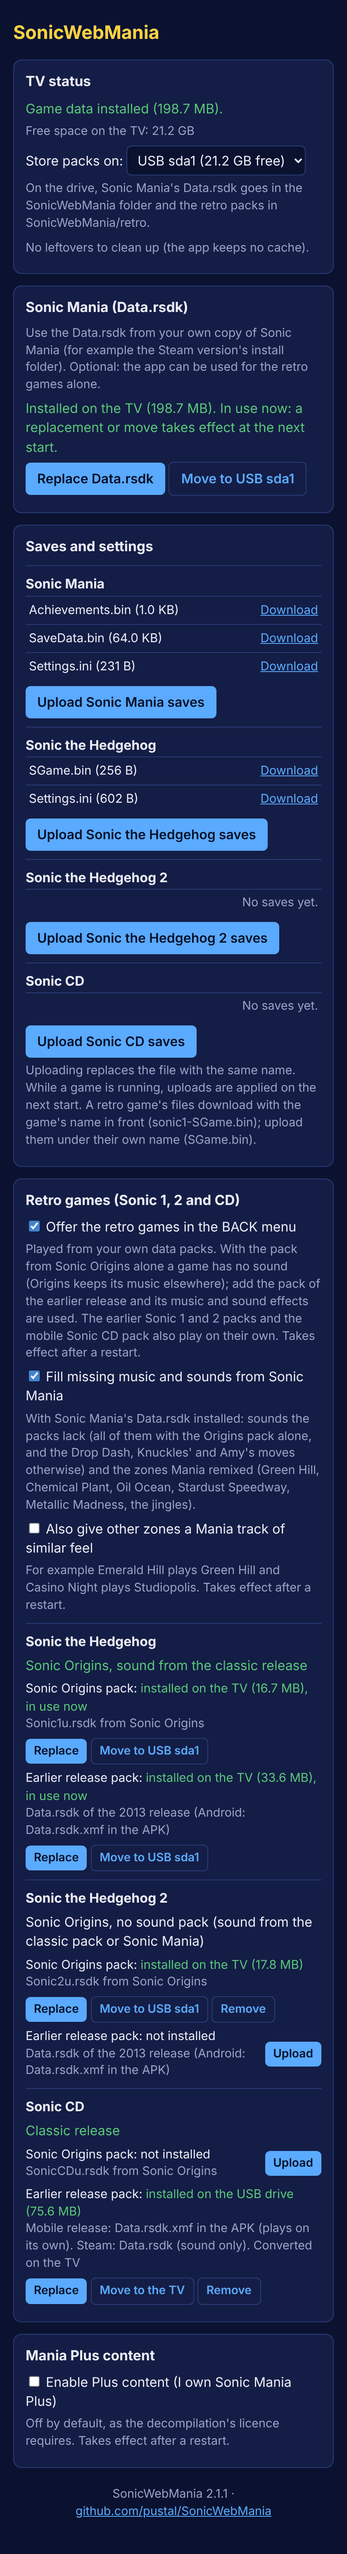
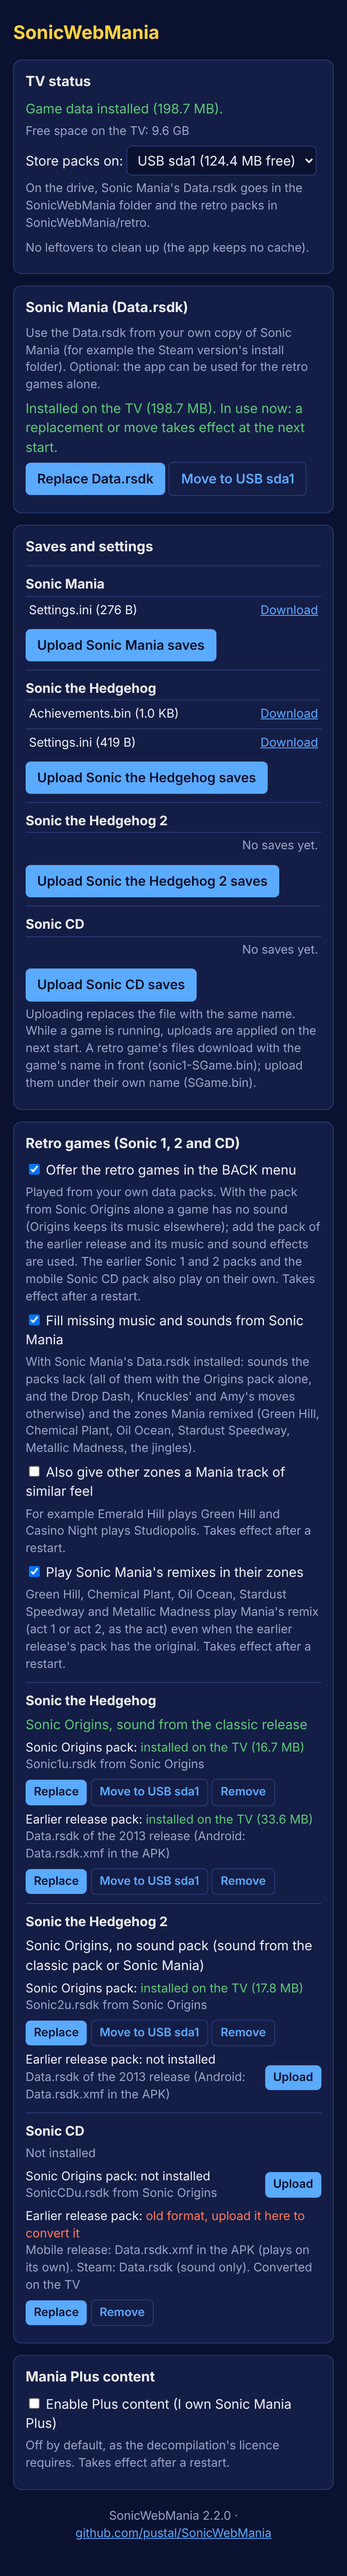
Release 2.2.0: Sonic Mania remixes option, act 2 remixes, updated transfer page screenshot

Changed region(s): [[0.0619, 0.0311, 0.9286, 0.9955], [0.7738, 0.8399, 0.8976, 0.9021]]

diff --git a/web/index.html b/web/index.html
@@ -101,6 +101,9 @@
         Oil Ocean, Stardust Speedway, Metallic Madness, the jingles).</p>
       <p><label><input id="mania-similar" type="checkbox"> Also give other zones a Mania track of similar feel</label></p>
       <p class="dim">For example Emerald Hill plays Green Hill and Casino Night plays Studiopolis. Takes effect after a restart.</p>
+      <p><label><input id="mania-remixes" type="checkbox"> Play Sonic Mania's remixes in their zones</label></p>
+      <p class="dim">Green Hill, Chemical Plant, Oil Ocean, Stardust Speedway and Metallic Madness play Mania's remix (act 1
+        or act 2, as the act) even when the earlier release's pack has the original. Takes effect after a restart.</p>
       <div id="retro-games"></div>
       <progress id="retro-progress" class="hidden" max="100" value="0"></progress>
       <p id="retro-message"></p>
@@ -128,7 +131,7 @@
  * @typedef {{ active: boolean, received: number, expected: number }} UploadState
  * @typedef {{ version: string, mode: 'setup'|'game', freeBytes: number, safetyMarginBytes: number, persistent: boolean,
  *             dataPack: DataPackState, plusEnabled: boolean, retroEnabled: boolean, maniaAudio: boolean,
- *             maniaSimilarMusic: boolean, restartPending: boolean,
+ *             maniaSimilarMusic: boolean, maniaRemixes: boolean, restartPending: boolean,
  *             upload: UploadState }} Status
  * @typedef {{ name: string, size: number, mtime: number }} UserFile
  * @typedef {{ id: string, title: string, files: UserFile[] }} GameFiles
@@ -251,6 +254,9 @@ async function refreshStatus() {
   const similar = /** @type {HTMLInputElement} */ (byId('mania-similar'));
   similar.checked = status.maniaSimilarMusic;
   similar.disabled = !status.maniaAudio;
+  const remixes = /** @type {HTMLInputElement} */ (byId('mania-remixes'));
+  remixes.checked = status.maniaRemixes;
+  remixes.disabled = !status.maniaAudio;
   renderManiaPack();
 }
 
@@ -775,6 +781,12 @@ byId('mania-audio').addEventListener('change', async (event) => {
 byId('mania-similar').addEventListener('change', async (event) => {
   const checked = /** @type {HTMLInputElement} */ (event.target).checked;
   await api('/api/settings?maniaSimilarMusic=' + (checked ? '1' : '0'), { method: 'PUT' });
+  await refreshStatus();
+});
+
+byId('mania-remixes').addEventListener('change', async (event) => {
+  const checked = /** @type {HTMLInputElement} */ (event.target).checked;
+  await api('/api/settings?maniaRemixes=' + (checked ? '1' : '0'), { method: 'PUT' });
   await refreshStatus();
 });
 

diff --git a/src/RetroAudio.cpp b/src/RetroAudio.cpp
@@ -8,9 +8,11 @@
 #include "RetroAudio.h"
 
 #include <cstdio>
+#include <cstdlib>
 #include <cstring>
 #include <set>
 #include <string>
+#include <utility>
 
 namespace
 {
@@ -119,7 +121,10 @@ struct MusicStandIn {
     const char *retro;
     const char *mania;
     int loop;
-    bool similar; ///< Only with "similar music" on: a different zone of similar feel.
+    bool similar;                    ///< Only with "similar music" on: a different zone of similar feel.
+    const char *maniaAct2 = nullptr; ///< Mania's act 2 version, played from the retro zone's act 2 on.
+    int loopAct2          = 0;
+    bool remix            = false;   ///< Mania remixed this zone: "Mania remixes" prefers it to the original.
 };
 
 constexpr MusicStandIn kMusicStandIns[] = {
@@ -132,18 +137,19 @@ constexpr MusicStandIn kMusicStandIns[] = {
     { kAll, "GameOver", "GameOver.ogg", 0, false },
     { kSonic2, "Super", "Super.ogg", 165375, false },
     { kAll, "Boss", "BossEggman1.ogg", 282240, false },
-    { kSonic1, "GreenHill", "GreenHill1.ogg", 776160, false },
-    { kSonic2, "ChemicalPlant", "ChemicalPlant1.ogg", 680400, false },
-    { kSonic2, "OilOcean", "OilOcean1.ogg", 358389, false },
+    // Loop points from Mania's scenes (GHZ, CPZ, OOZ1/OOZ2, SSZ1/SSZ2, MMZ).
+    { kSonic1, "GreenHill", "GreenHill1.ogg", 776160, false, "GreenHill2.ogg", 775552, true },
+    { kSonic2, "ChemicalPlant", "ChemicalPlant1.ogg", 680400, false, "ChemicalPlant2.ogg", 680400, true },
+    { kSonic2, "OilOcean", "OilOcean1.ogg", 358389, false, "OilOcean2.ogg", 176400, true },
     // Sonic CD: A present, B past, C good future, D bad future.
-    { kSonicCd, "R7A", "StardustSpeedway1.ogg", 432894, false },
-    { kSonicCd, "R7B", "StardustSpeedway1.ogg", 432894, false },
-    { kSonicCd, "R7C", "StardustSpeedway1.ogg", 432894, false },
-    { kSonicCd, "R7D", "StardustSpeedway2.ogg", 1, false },
-    { kSonicCd, "R8A", "MetallicMadness1.ogg", 470400, false },
-    { kSonicCd, "R8B", "MetallicMadness1.ogg", 470400, false },
-    { kSonicCd, "R8C", "MetallicMadness1.ogg", 470400, false },
-    { kSonicCd, "R8D", "MetallicMadness2.ogg", 296056, false },
+    { kSonicCd, "R7A", "StardustSpeedway1.ogg", 432894, false, nullptr, 0, true },
+    { kSonicCd, "R7B", "StardustSpeedway1.ogg", 432894, false, nullptr, 0, true },
+    { kSonicCd, "R7C", "StardustSpeedway1.ogg", 432894, false, nullptr, 0, true },
+    { kSonicCd, "R7D", "StardustSpeedway2.ogg", 1, false, nullptr, 0, true },
+    { kSonicCd, "R8A", "MetallicMadness1.ogg", 470400, false, nullptr, 0, true },
+    { kSonicCd, "R8B", "MetallicMadness1.ogg", 470400, false, nullptr, 0, true },
+    { kSonicCd, "R8C", "MetallicMadness1.ogg", 470400, false, nullptr, 0, true },
+    { kSonicCd, "R8D", "MetallicMadness2.ogg", 296056, false, nullptr, 0, true },
 
     // Similar feel (opt-in).
     { kAll, "TitleScreen", "TitleScreen.ogg", 0, true },
@@ -200,6 +206,7 @@ constexpr MusicStandIn kSpeedShoes = { kSonic1 | kSonic2, "", "Sneakers.ogg", 12
 struct AudioSession {
     unsigned game     = 0; ///< A Games bit; 0 for Sonic Mania (no stand-ins).
     bool similarMusic = false;
+    bool remixes      = false; ///< Mania's remixes win over the packs' originals.
     std::set<std::string> logged; ///< Stand-ins already reported to the log.
 };
 
@@ -273,16 +280,45 @@ const MusicStandIn *FindMusic(const std::string &name)
     return nullptr;
 }
 
+/** True when @p name is the sped-up track ("..._F.ogg") of a zone Mania remixed. */
+bool RemixedZoneFast(const std::string &name)
+{
+    const std::size_t dot = name.find_last_of('.');
+    const std::string base = dot == std::string::npos ? name : name.substr(0, dot);
+    if (base.size() <= 2 || !SameName(base.substr(base.size() - 2), "_F"))
+        return false;
+    const MusicStandIn *zone = FindMusic(base.substr(0, base.size() - 2) + ".ogg");
+    return zone && zone->remix;
+}
+
+/** The act being played, from the stage list's id ("1", "2"...), or 1 outside a stage list. */
+int CurrentAct()
+{
+    if (RSDK::engine.version == 5 || !RSDK::sceneInfo.listData)
+        return 1;
+    const int act = std::atoi(RSDK::sceneInfo.listData[RSDK::sceneInfo.listPos].id);
+    return act > 0 ? act : 1;
+}
+
+/** The Mania track and loop point of @p entry for the act being played. */
+std::pair<std::string, int> TrackForAct(const MusicStandIn &entry)
+{
+    if (entry.maniaAct2 && CurrentAct() >= 2)
+        return { entry.maniaAct2, entry.loopAct2 };
+    return { entry.mania, entry.loop };
+}
+
 } // namespace
 
 namespace swm
 {
 
-void ConfigureRetroAudio(const std::string &gameId, bool similarMusic)
+void ConfigureRetroAudio(const std::string &gameId, bool similarMusic, bool remixes)
 {
     AudioSession &session = Session();
     session.game          = gameId == "sonic1" ? kSonic1 : gameId == "sonic2" ? kSonic2 : gameId == "soniccd" ? kSonicCd : 0;
     session.similarMusic  = similarMusic;
+    session.remixes       = remixes;
 }
 
 } // namespace swm
@@ -308,19 +344,29 @@ extern "C" int WebOSPort_ResolveLegacyMusic(const char *name, char *out, int out
 {
     if (!Session().game || !name || !*name)
         return 0;
-    const std::string retro = name;
-    const int source        = SourceOf("Data/Music/" + retro);
-    if (source == RSDK::DATAFILE_SOURCE_GAME)
-        return 0;
-
+    const std::string retro   = name;
+    const int source          = SourceOf("Data/Music/" + retro);
     const MusicStandIn *entry = FindMusic(retro);
-    if (entry && SourceOf(std::string("Data/Music/") + entry->mania) == RSDK::DATAFILE_SOURCE_AUDIO) {
-        if (!CopyOut(entry->mania, out, outSize))
+
+    // The game's own track wins, unless it is a zone Mania remixed and the
+    // remixes are preferred. A remixed zone's sped-up track (speed shoes)
+    // becomes Mania's jingle too, rather than the original sped up.
+    if (source == RSDK::DATAFILE_SOURCE_GAME) {
+        const bool remixed = entry && Session().remixes && (entry->remix || entry == &kSpeedShoes);
+        if (!remixed || (entry == &kSpeedShoes && !RemixedZoneFast(retro)))
             return 0;
-        if (loopPoint)
-            *loopPoint = entry->loop;
-        LogOnce("music", retro, entry->mania);
-        return 1;
+    }
+
+    if (entry) {
+        const std::pair<std::string, int> track = TrackForAct(*entry);
+        if (SourceOf("Data/Music/" + track.first) == RSDK::DATAFILE_SOURCE_AUDIO) {
+            if (!CopyOut(track.first, out, outSize))
+                return 0;
+            if (loopPoint)
+                *loopPoint = track.second;
+            LogOnce("music", retro, track.first);
+            return 1;
+        }
     }
     // A Mania track that only shares the name (its title screen, credits...)
     // is a different song: play nothing rather than that, unless chosen above.

diff --git a/src/port/TransferServer.cpp b/src/port/TransferServer.cpp
@@ -11,7 +11,7 @@
  *   GET  /api/files           JSON: saves/settings files, Sonic Mania's and each retro game's
  *   GET  /api/files/:name[?game=<id>]   download one file (a retro game's with ?game=sonic1 ...)
  *   PUT  /api/files/:name[?game=<id>]   raw body = replacement file (applied at next launch while playing)
- *   PUT  /api/settings?plusEnabled=0|1&retroEnabled=0|1&maniaAudio=0|1&maniaSimilarMusic=0|1
+ *   PUT  /api/settings?plusEnabled=0|1&retroEnabled=0|1&maniaAudio=0|1&maniaSimilarMusic=0|1&maniaRemixes=0|1
  *                             (any of them)
  *   GET  /api/retro           JSON: retro mode, TV and USB space, each game's packs
  *   PUT  /api/retro/:game/:edition?dest=tv|usb[&mount=<USB mount point>]
@@ -517,6 +517,7 @@ void TransferServer::RegisterRoutes()
              << ",\"retroEnabled\":" << (config_.IsRetroEnabled() ? "true" : "false")
              << ",\"maniaAudio\":" << (config_.IsManiaAudioEnabled() ? "true" : "false")
              << ",\"maniaSimilarMusic\":" << (config_.IsManiaSimilarMusicEnabled() ? "true" : "false")
+             << ",\"maniaRemixes\":" << (config_.IsManiaRemixesEnabled() ? "true" : "false")
              << ",\"restartPending\":" << (status.restartPending ? "true" : "false")
              << ",\"upload\":{\"active\":" << (status.uploading ? "true" : "false")
              << ",\"received\":" << status.receivedBytes << ",\"expected\":" << status.expectedBytes << "}}";
@@ -702,7 +703,7 @@ void TransferServer::RegisterRoutes()
 
     server.Put("/api/settings", [this](const httplib::Request &req, httplib::Response &res) {
         if (!req.has_param("plusEnabled") && !req.has_param("retroEnabled") && !req.has_param("maniaAudio")
-            && !req.has_param("maniaSimilarMusic"))
+            && !req.has_param("maniaSimilarMusic") && !req.has_param("maniaRemixes"))
             return Fail(res, 400, "Nothing to change.");
 
         std::string message;
@@ -730,6 +731,12 @@ void TransferServer::RegisterRoutes()
             if (!config_.SetManiaSimilarMusicEnabled(enabled))
                 return Fail(res, 500, "Could not save the setting.");
             message = enabled ? "Similar Mania music on. Restart to apply." : "Similar Mania music off. Restart to apply.";
+        }
+        if (req.has_param("maniaRemixes")) {
+            const bool enabled = req.get_param_value("maniaRemixes") == "1";
+            if (!config_.SetManiaRemixesEnabled(enabled))
+                return Fail(res, 500, "Could not save the setting.");
+            message = enabled ? "Sonic Mania remixes on. Restart to apply." : "Sonic Mania remixes off. Restart to apply.";
         }
 
         NoteRestartNeeded();

diff --git a/src/port/PortConfig.cpp b/src/port/PortConfig.cpp
@@ -2,7 +2,7 @@
  * @file PortConfig.cpp
  * @brief Reads and writes port.ini (see PortConfig.h). The format is plain
  *        "key=value" lines (plusEnabled, retroEnabled, maniaAudio,
- *        maniaSimilarMusic, lastGame); unknown
+ *        maniaSimilarMusic, maniaRemixes, lastGame); unknown
  *        keys are ignored.
  */
 #include "PortConfig.h"
@@ -19,6 +19,7 @@ constexpr const char *kRetroKey    = "retroEnabled";
 constexpr const char *kLastGameKey = "lastGame";
 constexpr const char *kManiaAudioKey   = "maniaAudio";
 constexpr const char *kManiaSimilarKey = "maniaSimilarMusic";
+constexpr const char *kManiaRemixesKey = "maniaRemixes";
 
 /** Game ids are short names of letters and digits; anything else is ignored. */
 bool IsPlainId(const std::string &id)
@@ -66,6 +67,8 @@ PortConfig::PortConfig(std::string path) : path_(std::move(path))
             maniaAudio_ = ParseBool(value);
         else if (key == kManiaSimilarKey)
             maniaSimilar_ = ParseBool(value);
+        else if (key == kManiaRemixesKey)
+            maniaRemixes_ = ParseBool(value);
         else if (key == kLastGameKey && IsPlainId(value))
             lastGame_ = value;
     }
@@ -123,6 +126,19 @@ bool PortConfig::SetManiaSimilarMusicEnabled(bool enabled)
     return SaveLocked();
 }
 
+bool PortConfig::IsManiaRemixesEnabled() const
+{
+    std::lock_guard<std::mutex> lock(mutex_);
+    return maniaRemixes_;
+}
+
+bool PortConfig::SetManiaRemixesEnabled(bool enabled)
+{
+    std::lock_guard<std::mutex> lock(mutex_);
+    maniaRemixes_ = enabled;
+    return SaveLocked();
+}
+
 std::string PortConfig::LastGame() const
 {
     std::lock_guard<std::mutex> lock(mutex_);
@@ -147,6 +163,7 @@ bool PortConfig::SaveLocked() const
     out << kRetroKey << '=' << (retroEnabled_ ? "1" : "0") << '\n';
     out << kManiaAudioKey << '=' << (maniaAudio_ ? "1" : "0") << '\n';
     out << kManiaSimilarKey << '=' << (maniaSimilar_ ? "1" : "0") << '\n';
+    out << kManiaRemixesKey << '=' << (maniaRemixes_ ? "1" : "0") << '\n';
     if (!lastGame_.empty())
         out << kLastGameKey << '=' << lastGame_ << '\n';
     return static_cast<bool>(out);

diff --git a/src/RetroAudio.h b/src/RetroAudio.h
@@ -12,12 +12,15 @@
  * effect and track the game's packs lack, what to play instead:
  *   - sound effects: Mania's file of the same name, or its nearest one
  *     (Amy's hammer, for instance, uses Mania's hits and jumps);
- *   - music: the Mania remix of the same zone or jingle (Green Hill, Chemical
- *     Plant, Stardust Speedway, invincibility...), with Mania's loop point;
+ *   - music: the Mania remix of the same zone (its act 1 or act 2 version, as
+ *     the act being played) or jingle (Green Hill, Chemical Plant, Stardust
+ *     Speedway, invincibility...), with Mania's loop point;
  *   - with "similar music" on (off by default), zones Mania has no version of
  *     get a track of similar feel (Emerald Hill plays Green Hill, Casino
  *     Night plays Studiopolis...).
- * Whatever the game's own packs have always wins.
+ * Whatever the game's own packs have wins, except with "Mania remixes" on (off
+ * by default): then the zones Mania remixed play the remix even when the
+ * packs (the earlier releases') have the original.
  */
 #ifndef SWM_RETRO_AUDIO_H
 #define SWM_RETRO_AUDIO_H
@@ -34,8 +37,10 @@ namespace swm
  *                     "soniccd"); anything else (Sonic Mania) uses none.
  * @param similarMusic Also give zones Mania has no version of a track of
  *                     similar feel.
+ * @param remixes      Play Mania's remix of the zones it remixed even when
+ *                     the game's packs have the original.
  */
-void ConfigureRetroAudio(const std::string &gameId, bool similarMusic);
+void ConfigureRetroAudio(const std::string &gameId, bool similarMusic, bool remixes);
 
 } // namespace swm
 

diff --git a/src/port/PortConfig.h b/src/port/PortConfig.h
@@ -63,6 +63,17 @@ public:
     bool SetManiaSimilarMusicEnabled(bool enabled);
 
     /**
+     * Whether, on top of IsManiaAudioEnabled(), the zones Mania remixed
+     * (Green Hill, Chemical Plant, Oil Ocean, Stardust Speedway, Metallic
+     * Madness) play Mania's remix even when the game's packs have the
+     * original. Off by default.
+     */
+    bool IsManiaRemixesEnabled() const;
+
+    /** Stores the Mania remixes setting. @return False if port.ini could not be written. */
+    bool SetManiaRemixesEnabled(bool enabled);
+
+    /**
      * The game to start when the app is opened: the id of the last game that
      * was left normally ("mania", "sonic1", ...), or "" for the default.
      *
@@ -85,6 +96,7 @@ private:
     bool retroEnabled_ = false;
     bool maniaAudio_   = true;
     bool maniaSimilar_ = false;
+    bool maniaRemixes_ = false;
     std::string lastGame_;
 };
 

diff --git a/src/main.cpp b/src/main.cpp
@@ -243,7 +243,7 @@ int32 main(int32 argc, char *argv[])
             }
             if (!audioPack.empty())
                 packsInUse.push_back(audioPack);
-            swm::ConfigureRetroAudio(game, config.IsManiaSimilarMusicEnabled());
+            swm::ConfigureRetroAudio(game, config.IsManiaSimilarMusicEnabled(), config.IsManiaRemixesEnabled());
         }
         else {
             std::fprintf(stderr, "SonicWebMania: cannot start %s: %s\n", game.c_str(), error.c_str());

diff --git a/README.md b/README.md
@@ -2,7 +2,7 @@
 
 # SonicWebMania
 
-**Version 2.1.1** · Sonic Mania for LG webOS TVs: the [RSDKv5](https://github.com/RSDKModding/RSDKv5-Decompilation)
+**Version 2.2.0** · Sonic Mania for LG webOS TVs: the [RSDKv5](https://github.com/RSDKModding/RSDKv5-Decompilation)
 and [Sonic Mania](https://github.com/RSDKModding/Sonic-Mania-Decompilation) decompilations,
 built as a **native** webOS app (SDL2), with a few TV-friendly extras:
 
@@ -123,8 +123,11 @@ How each game plays depends on what you upload:
     Knuckles' glide and climb...), or its nearest one; Amy's hammer uses Mania's hits
     and jumps.
   - Music: the zones and jingles Mania remixed, with Mania's loop points: Green Hill,
-    Chemical Plant, Oil Ocean, Stardust Speedway and Metallic Madness (by time period),
-    plus invincibility, speed shoes, act clear, boss, drowning, game over and Super.
+    Chemical Plant and Oil Ocean (Mania's act 1 remix in act 1, its act 2 remix from
+    act 2 on), Stardust Speedway and Metallic Madness (by time period), plus
+    invincibility, speed shoes, act clear, boss, drowning, game over and Super.
+  - **Mania remixes** (off by default): those zones play Mania's remix even when the
+    earlier release's pack has the original, and their speed shoes play Mania's jingle.
   - **Similar music** (off by default): zones Mania has no version of get a Mania track
     of similar feel, such as Emerald Hill with Green Hill, Casino Night with Studiopolis,
     Aquatic Ruin and Tidal Tempest with Hydrocity, Mystic Cave and Quartz Quadrant with
